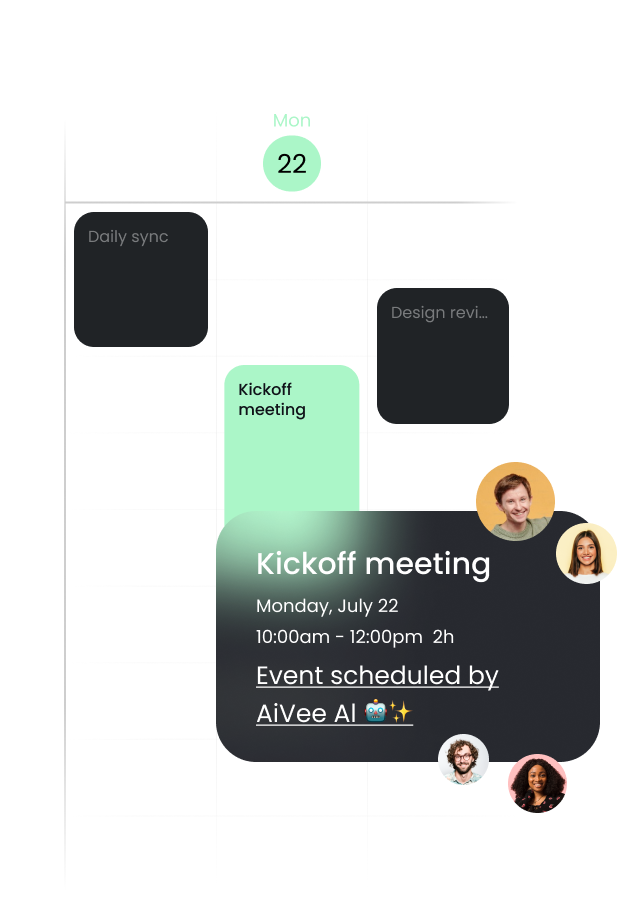
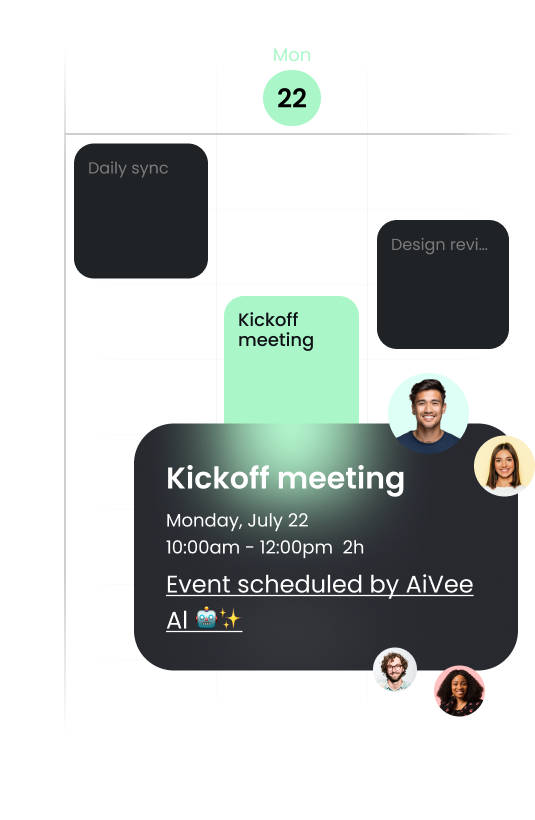
fix: adjust size & images

Changed region(s): [[0.2393, 0.2439, 1.0, 0.9146], [0.0897, 0.1524, 0.3888, 0.7927], [0.4187, 0.061, 0.5981, 0.2134]]

diff --git a/src/components/CallToAction.tsx b/src/components/CallToAction.tsx
@@ -9,32 +9,31 @@ const CallToAction: React.FC = () => {
   const [isOpen, setOpen] = useState(false);
 
   return (
-    <section className="flex justify-center items-center px-16 w-full max-md:px-5 max-md:max-w-full">
-      <div className="flex flex-col mt-3 mb-3 w-full max-w-[1440px] max-md:max-w-full">
-        <h2 className="text-4xl font-medium text-center text-white max-md:max-w-full">
+    <section className="flex justify-center items-center w-full max-md:max-w-full">
+      <div className="flex flex-col w-full max-w-[75rem] max-h-[50rem] max-md:max-w-full px-12 py-10 max-md:px-10">
+        <h2 className="text-4xl max-md:text-xl font-medium text-center text-white max-md:max-w-full">
           Coming soon!
         </h2>
-        <div className="flex flex-col items-center p-16 rounded-[60px] max-md:px-5 max-md:max-w-full relative ">
+        <div className="flex flex-col items-center my-8 rounded-[60px] max-md:max-w-full relative ">
           <img
             loading="lazy"
             src="/phone.png"
             alt="AiVee phone"
-            className="max-w-full aspect-[0.97] w-[360px]"
+            className="max-w-full w-[23.25rem]"
           />
-          <button className="absolute w-12 top-[37%] max-md:top-[33%]" type="button" onClick={() => setOpen(!isOpen)}>
+          <button className="absolute w-20 max-md:w-14 top-[36%]" type="button" onClick={() => setOpen(!isOpen)}>
             <img
               loading="lazy"
               src="/play.png"
               alt="AiVee play button"
-              className="max-w-full aspect-[0.97] w-[360px]"
+              className="max-w-full w-[5rem]"
             />
           </button>
-          <h3 className="self-stretch text-5xl font-medium text-center text-white max-md:mt-10 max-md:max-w-full max-md:text-2xl">
-            Ready to <span className="text-white">take control </span>of your
-            time?
+          <h3 className="self-stretch text-4xl font-medium text-center text-white max-md:max-w-full max-md:text-2xl max-md:leading-normal">
+            Ready to take control of your time?
           </h3>
           <Link to={'https://emkd1hav7wo.typeform.com/to/SlakC6t7'} target="_blank">
-            <button className="justify-center px-20 py-6 mt-12 text-3xl max-md:text-xl font-semibold bg-emerald-200 rounded-[100px] text-zinc-950 max-md:px-8 max-md:mt-10" type="button">
+            <button className="justify-center px-[3.75rem] py-[0.875rem] text-2xl max-md:text-xl font-semibold bg-emerald-200 rounded-[100px] text-zinc-950 max-md:px-8 mt-12 max-md:mt-6" type="button">
               Join Waitlist
             </button>
           </Link>

diff --git a/src/components/Header.tsx b/src/components/Header.tsx
@@ -6,21 +6,21 @@ import { Link } from "react-router-dom";
 
 const Header: React.FC = () => {
   return (
-    <nav className="flex justify-center items-center px-16 py-5 w-full font-semibold bg-zinc-950 max-md:px-5 max-md:max-w-full sticky top-0 z-50">
-      <div className="flex gap-0 justify-between max-md:flex-wrap w-full max-w-[1440px] max-md:max-w-full">
+    <nav className="flex justify-center items-center w-full font-semibold bg-zinc-950 max-md:max-w-full sticky top-0 z-50 backdrop-blur-[80px] bg-opacity-70">
+      <div className="flex gap-0 justify-between items-center content-center max-md:flex-wrap w-full max-w-[75rem] max-h-16 max-md:max-w-full px-10 py-6 max-md:px-10">
         <div className="text-4xl text-white whitespace-nowrap max-md:flex-wrap">
           <Link className="flex flex-1 gap-2.5" to={'/'}>
             <img
               loading="lazy"
               src="/aivee.png"
               alt=""
-              className="shrink-0 aspect-square w-[50px]"
+              className="shrink-0 aspect-square w-[2.5rem]"
             />
             <div className="my-auto text-xl max-md:max-w-full max-sm:invisible">AiVee</div>
           </Link>
         </div>
         <Link to={'https://emkd1hav7wo.typeform.com/to/SlakC6t7'} target="_blank">
-          <button className="justify-center px-10 py-3 my-auto text-lg bg-emerald-200 rounded-[100px] text-zinc-950 max-md:px-5">
+          <button className="justify-center px-6 py-2.5 my-auto text-lg max-md:text-base bg-emerald-200 rounded-[100px] text-zinc-950">
             Join Waitlist
           </button>
         </Link>

diff --git a/src/components/InvitationSection.tsx b/src/components/InvitationSection.tsx
@@ -5,15 +5,15 @@ import React from "react";
 
 const InvitationSection: React.FC = () => {
   return (
-    <section className="flex justify-center items-center px-16 py-20 w-full max-md:px-5 max-md:max-w-full">
-      <div className="w-full max-w-[1440px] max-md:max-w-full">
-        <div className="flex gap-40 max-xl:gap-20 max-md:flex-col max-md:gap-0">
+    <section className="flex justify-center items-center w-full max-md:max-w-full">
+      <div className="w-full max-w-[75rem] max-h-[50rem] max-md:max-w-full px-12 py-10 max-md:px-10 max-md:py-12">
+        <div className="flex gap-[6.25rem] max-xl:gap-20 max-md:flex-col max-md:gap-0">
           <div className="flex flex-col w-6/12 max-md:ml-0 max-md:w-full">
             <div className="flex flex-col justify-center self-stretch my-auto max-md:mt-10 max-md:max-w-full">
-              <h2 className="text-4xl max-md:text-xl font-semibold text-emerald-200 max-md:max-w-full">
+              <h2 className="text-[1.875rem] max-md:text-xl font-semibold text-emerald-200 max-md:max-w-full">
                 Streamlined Invitations
               </h2>
-              <h3 className="mt-5 text-[44px] leading-normal font-medium text-white max-md:max-w-full max-md:text-2xl">
+              <h3 className="mt-5 text-4xl leading-normal font-medium text-white max-md:max-w-full max-md:text-2xl">
                 Effortlessly Manage <br/>Invitees Straight from Your Contact List!
               </h3>
             </div>

diff --git a/src/components/FeatureSection.tsx b/src/components/FeatureSection.tsx
@@ -5,15 +5,15 @@ import React from "react";
 
 const FeatureSection: React.FC = () => {
   return (
-    <section className="flex justify-center items-center px-16 py-20 w-full max-md:px-5 max-md:max-w-full">
-      <div className="mt-40 mb-28 w-full max-w-[1440px] max-md:my-10 max-md:max-w-full">
-        <div className="flex gap-40 max-md:flex-col max-md:gap-0">
+    <section className="flex justify-center items-center w-full max-md:max-w-full">
+      <div className="w-full max-w-[75rem] max-h-[50rem] max-md:max-w-full px-12 py-10 max-md:px-10 max-md:py-12">
+        <div className="flex gap-[6.25rem] max-md:flex-col max-md:gap-0">
           <div className="flex flex-col w-6/12 max-md:ml-0 max-md:w-full">
             <div className="flex flex-col self-stretch my-auto font-semibold max-md:mt-10 max-md:max-w-full">
-              <h2 className="text-4xl max-md:text-xl text-emerald-200 max-md:max-w-full">
+              <h2 className="text-[1.875rem] max-md:text-xl text-emerald-200 max-md:max-w-full">
                 Instant Event Creation
               </h2>
-              <h3 className="mt-5 text-[44px] leading-normal text-white max-md:max-w-full max-md:text-2xl">
+              <h3 className="mt-5 text-4xl leading-normal text-white max-md:max-w-full max-md:text-2xl">
                 Transform Your Screenshots into Engaging Events!
               </h3>
             </div>

diff --git a/src/components/HeroSection.tsx b/src/components/HeroSection.tsx
@@ -5,15 +5,15 @@ import React from "react";
 
 const HeroSection: React.FC = () => {
   return (
-    <section className="flex justify-center items-center p-16 w-full max-md:px-5 max-md:max-w-full">
-      <div className="w-full max-w-[1440px] max-md:max-w-full">
-        <div className="flex gap-40 max-xl:gap-20 max-md:flex-col">
+    <section className="flex justify-center items-center w-full max-md:max-w-full">
+      <div className="w-full max-w-[75rem] max-h-[50rem] max-md:max-w-full px-12 py-10 max-md:px-10 max-md:py-12">
+        <div className="flex gap-[6.25rem] max-xl:gap-20 max-md:flex-col">
           <div className="flex flex-col w-6/12 max-md:ml-0 max-md:w-full">
             <div className="flex flex-col self-stretch pr-3 my-auto font-semibold max-md:mt-10 max-md:max-w-full">
-              <h2 className="text-4xl max-md:text-xl text-emerald-200 max-md:max-w-full">
+              <h2 className="text-[1.875rem] max-md:text-xl text-emerald-200 max-md:max-w-full">
                 AI-Powered Smart Scheduling
               </h2>
-              <h1 className="mt-5 text-[44px] leading-normal text-white max-md:max-w-full max-md:text-2xl font-semibold">
+              <h1 className="mt-5 text-4xl leading-normal text-white max-md:max-w-full max-md:text-2xl font-semibold">
                 Effortlessly Plan with Just a Screenshot
               </h1>
             </div>

diff --git a/src/components/Footer.tsx b/src/components/Footer.tsx
@@ -5,8 +5,8 @@ import React from "react";
 
 const Footer: React.FC = () => {
   return (
-    <footer className="flex relative justify-center items-center px-16 pb-10 w-full text-emerald-200 backdrop-blur-[80px] bg-zinc-950 bg-opacity-20 max-md:px-5 max-md:max-w-full">
-      <div className="flex gap-5 justify-between w-full max-w-[1436px] max-md:flex-wrap max-md:max-w-full max-md:flex-col max-md:content-center">
+    <footer className="flex relative justify-center items-center w-full text-emerald-200 backdrop-blur-[80px] bg-zinc-950 bg-opacity-20 max-md:max-w-full">
+      <div className="flex gap-5 justify-between w-full max-w-[75rem] px-12 pt-8 pb-10 text-[1rem] font-normal max-md:flex-wrap max-md:max-w-full max-md:flex-col max-md:content-center">
         <address className="flex not-italic text-xl max-md:text-base">
           <a href="mailto:hello@aivee.xyz" className="text-inherit">
             Contact: hello@aivee.xyz

diff --git a/src/pages/Privacy.tsx b/src/pages/Privacy.tsx
@@ -4,8 +4,8 @@ import Layout from "../components/Layout";
 const Privacy: React.FC = () => {
   return (
     <Layout>
-      <section className="flex justify-center items-center p-16 w-full max-md:px-5 max-md:max-w-full">
-        <div className="w-full max-w-[1440px] max-md:max-w-full">
+      <section className="flex justify-center items-center w-full max-md:max-w-full">
+        <div className="w-full max-w-[75rem] p-10">
           <div className="flex gap-5 max-md:flex-col max-md:gap-0">
             <div className="flex flex-col ml-5 max-md:ml-0 max-md:w-full">
               <div className="flex flex-col self-stretch my-auto max-md:mt-10 max-md:max-w-full text-justify">

diff --git a/src/pages/Terms.tsx b/src/pages/Terms.tsx
@@ -4,8 +4,8 @@ import Layout from "../components/Layout";
 const Terms: React.FC = () => {
   return (
     <Layout>
-      <section className="flex justify-center items-center p-16 w-full max-md:px-5 max-md:max-w-full">
-        <div className="w-full max-w-[1440px] max-md:max-w-full">
+      <section className="flex justify-center items-center w-full max-md:max-w-full">
+        <div className="w-full max-w-[75rem] p-10">
           <div className="flex gap-5 max-md:flex-col max-md:gap-0">
             <div className="flex flex-col ml-5 max-md:ml-0 max-md:w-full">
               <div className="flex flex-col self-stretch my-auto max-md:mt-10 max-md:max-w-full text-justify">

diff --git a/src/index.css b/src/index.css
@@ -1,7 +1,7 @@
 #root {
   font-family: "Poppins", sans-serif;
-  line-height: 1.5;
-  font-weight: 400;
+  line-height: normal;
+  font-weight: 600;
 
   color-scheme: light dark;
   color: rgba(255, 255, 255, 0.87);
